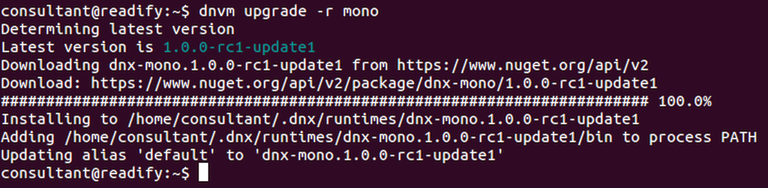
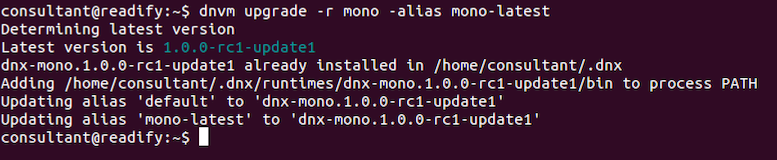
about to hello world asp.net code

diff --git a/Step4.md b/Step4.md
@@ -46,7 +46,7 @@ sudo apt-get install libunwind8 gettext libssl-dev libcurl4-openssl-dev zlib1g l
 ![4-dnx-prerequisites](Step4/4-dnx-prerequisites.png)
 
 ```
-dnvm upgrade -r coreclr
+dnvm upgrade -r coreclr -alias coreclr-latest
 ```
 
 ![5-upgrade-latest-coreclr](Step4/5-upgrade-latest-coreclr.png)
@@ -104,7 +104,7 @@ sudo apt-get upgrade
 The following command will upgrade to the latest version of DNX which wraps Mono. After this you should have access to both the latest CoreCLR and Mono via DNX.
 
 ```
-dnvm upgrade -r mono
+dnvm upgrade -r mono -alias mono-latest
 ```
 
 ![15-dnvm-upgrade-mono](Step4/15-dnvm-upgrade-mono.png)
@@ -139,31 +139,21 @@ dnvm list
 
 Great. We have access to the CoreCLR and Mono runtimes via DNX.
 
-The small problem is we have our _default_ alias set to Mono. Let's remove that.
+The small problem is we have our _default_ alias set to Mono. Let's update that.
 
 ```
-dnvm alias -d default
+dnvm alias default coreclr-latest
 ```
 
-![18-dnvm-alias-delete-default](Step4/18-dnvm-alias-delete-default.png)
+![18-dnvm-alias-coreclr-as-default](Step4/18-dnvm-alias-coreclr-as-default.png)
 
+#### Initialise some code
 
-
-
-
-
-
-
-
-
-
-
-
-#### ?
-
+Now we have our ASP.NET Core toolchain up and running let's make some code.
 
 
 TODO: Continue from here :)
+
 
 ## End of step 4
 
